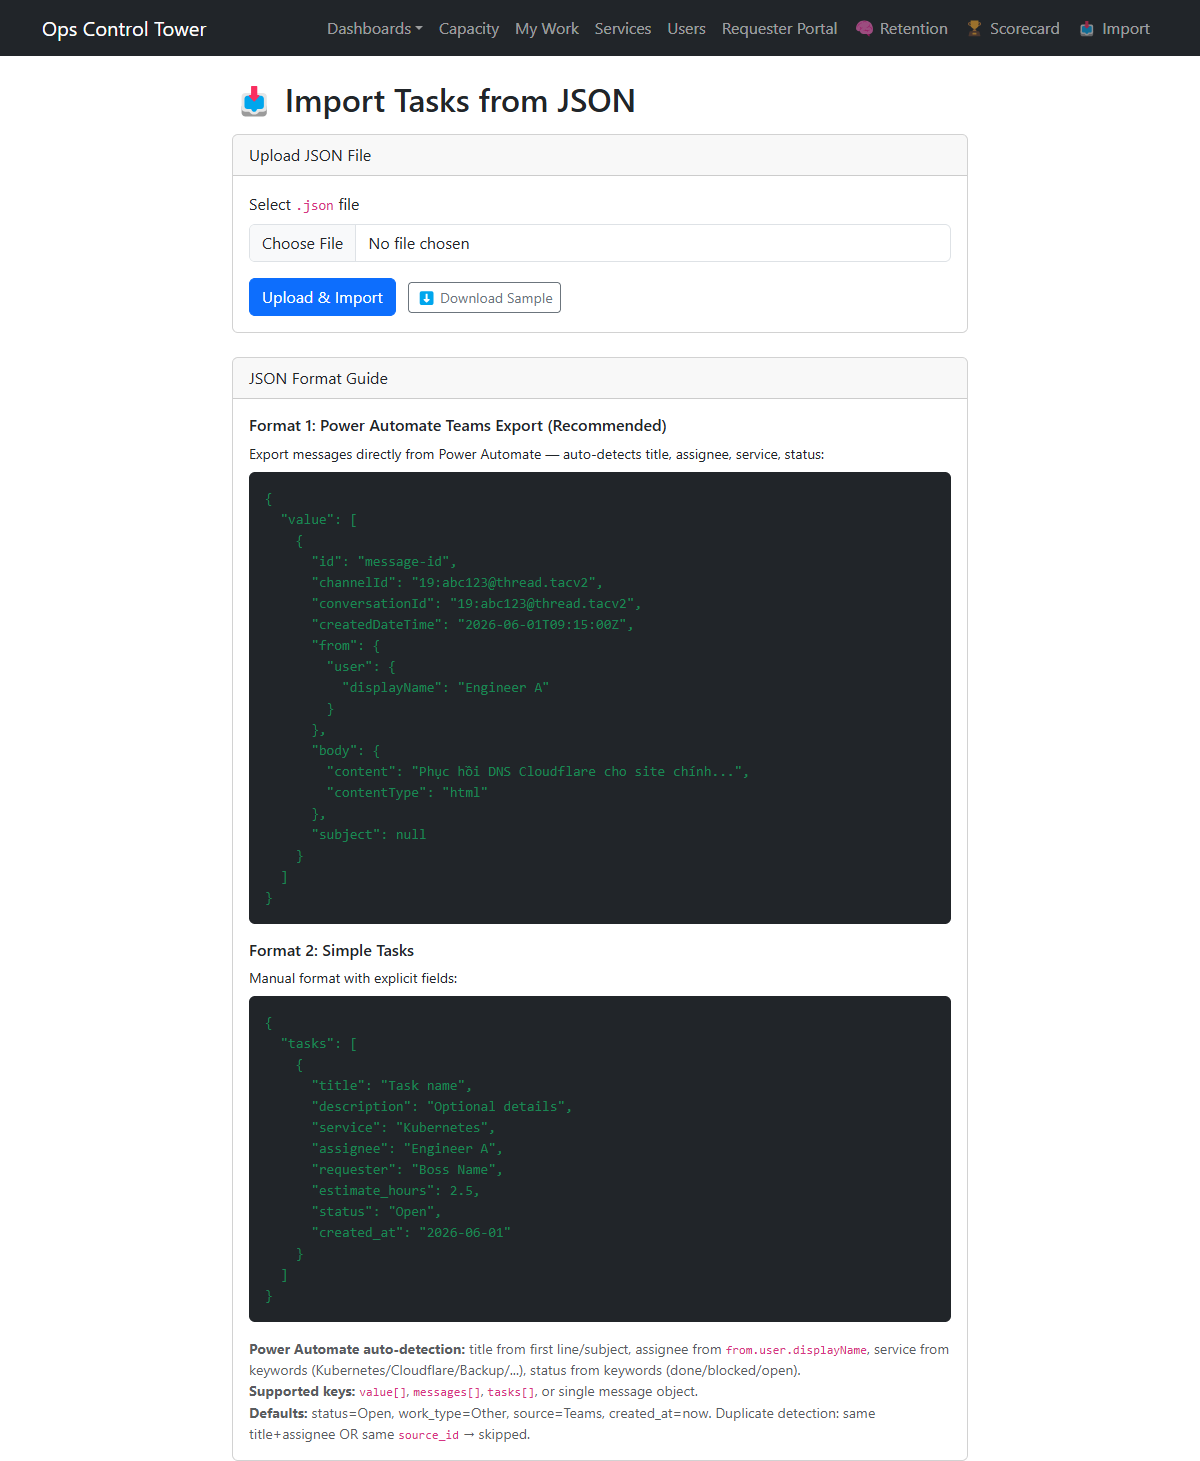
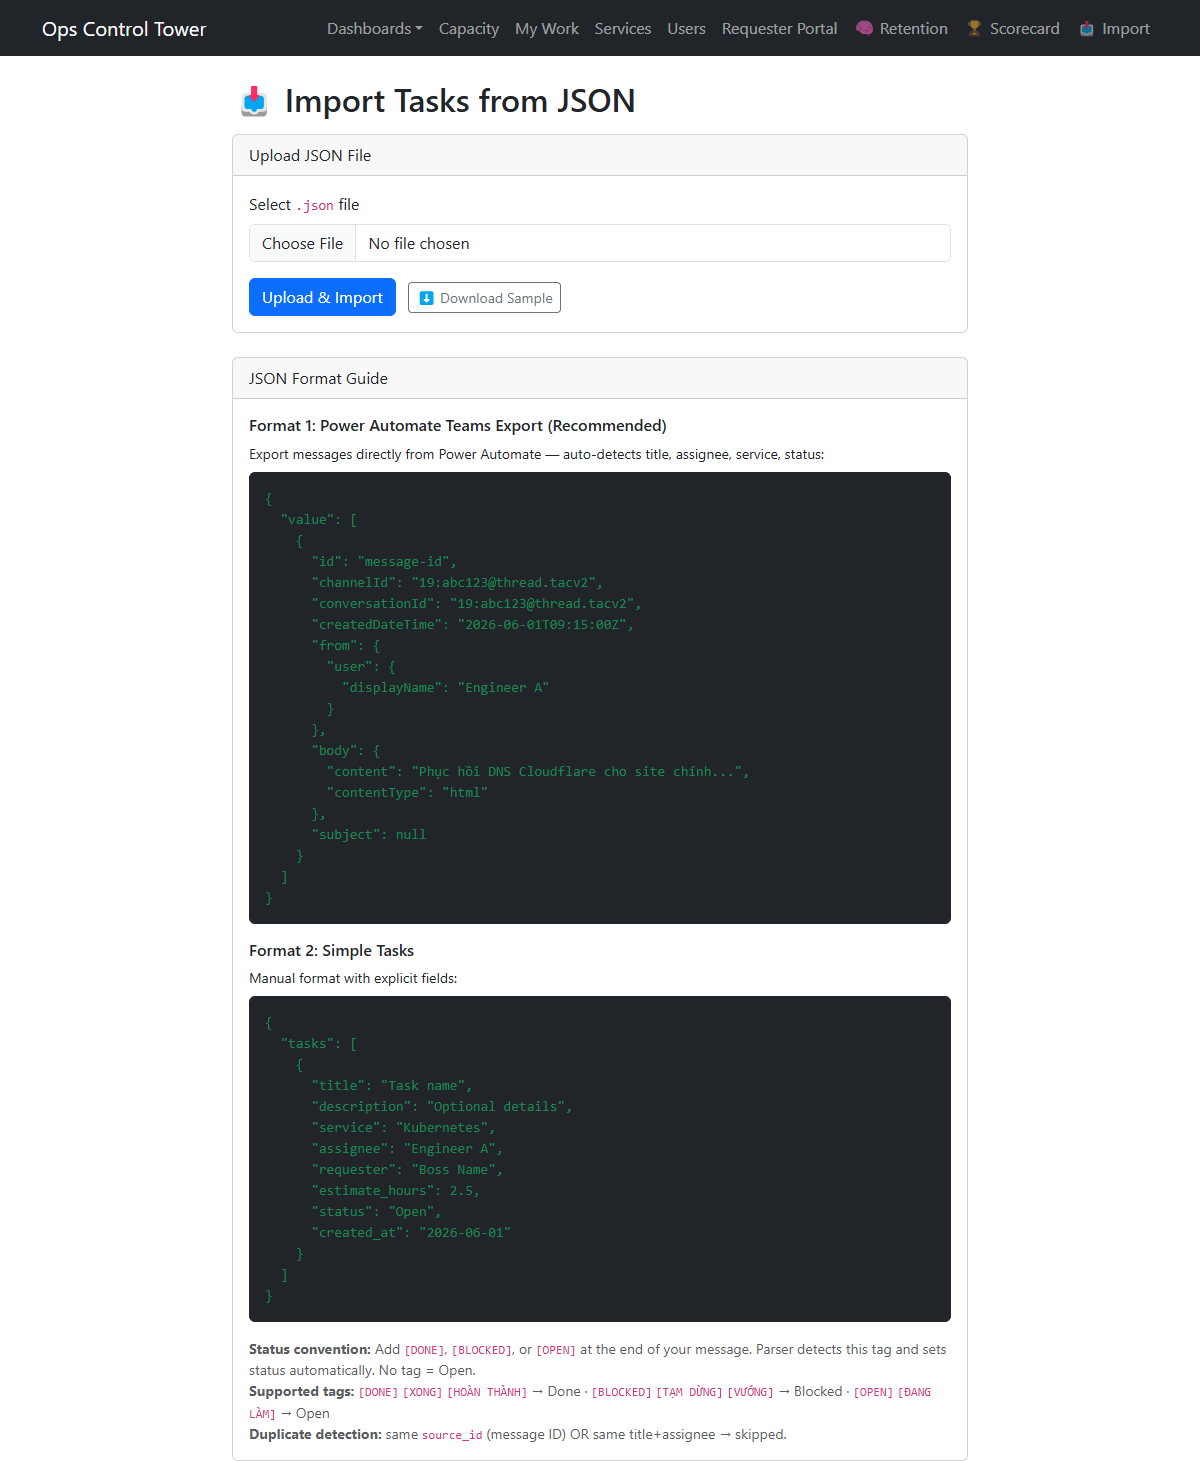
fix: convention tag detection for status + better duplicate message
- Status detection: [DONE]/[BLOCKED]/[OPEN] tags at end of message (priority 1)
  vs keyword fallback (priority 2)
- Tags stripped from title and description after extraction
- Template shows 'All tasks already exist' for duplicates instead of 'Import failed: None'
- sample-import.json: all 7 tasks use [DONE] or [OPEN] convention tags

Convention:
  [DONE] [XONG] [HOÀN THÀNH] → Done
  [BLOCKED] [TẠM DỪNG] [VƯỚNG] → Blocked
  [OPEN] [ĐANG LÀM] → Open (default)

Changed region(s): [[0.2158, 0.924, 0.7708, 0.9856]]

diff --git a/app/templates/import.html b/app/templates/import.html
@@ -30,6 +30,11 @@
       {% if result.skipped > 0 %} · Skipped: {{ result.skipped }}{% endif %}
       {% if result.total %} · Total in file: {{ result.total }}{% endif %}
     </div>
+    {% elif result.skipped > 0 and result.imported == 0 %}
+    <div class="alert alert-warning">
+      <strong>⚠ All tasks already exist</strong> ({{ result.skipped }} duplicates skipped).<br>
+      File: <code>{{ result.filename }}</code>
+    </div>
     {% else %}
     <div class="alert alert-danger">
       <strong>❌ Import failed:</strong> {{ result.error }}
@@ -99,11 +104,12 @@
 }</pre>
 
         <p class="small text-muted mb-0">
-          <strong>Power Automate auto-detection:</strong> title from first line/subject, assignee from <code>from.user.displayName</code>, 
-          service from keywords (Kubernetes/Cloudflare/Backup/...), status from keywords (done/blocked/open). 
-          <br><strong>Supported keys:</strong> <code>value[]</code>, <code>messages[]</code>, <code>tasks[]</code>, or single message object.
-          <br><strong>Defaults:</strong> status=Open, work_type=Other, source=Teams, created_at=now.
-          Duplicate detection: same title+assignee OR same <code>source_id</code> → skipped.
+          <strong>Status convention:</strong> Add <code>[DONE]</code>, <code>[BLOCKED]</code>, or <code>[OPEN]</code> at the end of your message. 
+          Parser detects this tag and sets status automatically. No tag = Open.
+          <br><strong>Supported tags:</strong> <code>[DONE]</code> <code>[XONG]</code> <code>[HOÀN THÀNH]</code> → Done · 
+          <code>[BLOCKED]</code> <code>[TẠM DỪNG]</code> <code>[VƯỚNG]</code> → Blocked · 
+          <code>[OPEN]</code> <code>[ĐANG LÀM]</code> → Open
+          <br><strong>Duplicate detection:</strong> same <code>source_id</code> (message ID) OR same title+assignee → skipped.
         </p>
       </div>
     </div>

diff --git a/app/routers/importer.py b/app/routers/importer.py
@@ -19,6 +19,14 @@ DONE_KEYWORDS = {"done", "completed", "hoàn thành", "xong", "đã xong", "reso
 BLOCKED_KEYWORDS = {"blocked", "halted", "stalled", "tạm dừng", "vướng", "chờ", "waiting", "pending"}
 OPEN_KEYWORDS = {"open", "in progress", "đang làm", "đang xử lý", "started", "bắt đầu"}
 
+# Convention tags: [DONE], [BLOCKED], [OPEN] at end of message
+STATUS_TAG_RE = re.compile(r"\[(DONE|XONG|HOÀN THÀNH|BLOCKED|TẠM DỪNG|VƯỚNG|OPEN|ĐANG LÀM)\]\s*$", re.IGNORECASE)
+STATUS_TAG_MAP = {
+    "DONE": "Done", "XONG": "Done", "HOÀN THÀNH": "Done",
+    "BLOCKED": "Blocked", "TẠM DỪNG": "Blocked", "VƯỚNG": "Blocked",
+    "OPEN": "Open", "ĐANG LÀM": "Open",
+}
+
 
 class _HTMLTextExtractor(HTMLParser):
     def __init__(self):
@@ -47,6 +55,14 @@ def detect_service(text: str) -> str:
 
 
 def detect_status(text: str) -> str:
+    """Detect status: first check convention tag [DONE]/[BLOCKED]/[OPEN], then keyword fallback."""
+    # Priority 1: convention tag at end of message
+    tag_match = STATUS_TAG_RE.search(text)
+    if tag_match:
+        tag = tag_match.group(1).upper()
+        return STATUS_TAG_MAP.get(tag, "Open")
+
+    # Priority 2: keyword detection (fallback)
     text_lower = text.lower()
     for kw in DONE_KEYWORDS:
         if kw in text_lower:
@@ -60,7 +76,7 @@ def detect_status(text: str) -> str:
 def extract_title_from_message(msg: dict) -> str:
     subject = (msg.get("subject") or "").strip()
     if subject:
-        return subject[:120]
+        return STATUS_TAG_RE.sub("", subject).strip()[:120]
 
     body = msg.get("body", {})
     if isinstance(body, dict):
@@ -70,6 +86,7 @@ def extract_title_from_message(msg: dict) -> str:
 
     text = strip_html(content) if "<" in content else content
     first_line = text.split("\n")[0].strip()
+    first_line = STATUS_TAG_RE.sub("", first_line).strip()
     return first_line[:120] if first_line else "(no subject)"
 
 
@@ -91,8 +108,11 @@ def parse_pa_message(msg: dict) -> dict:
 
     text = strip_html(content) if content_type == "html" or "<" in content else content
 
-    # Title = subject or first line
+    # Title = subject or first line (strip status tag)
     title = extract_title_from_message(msg)
+
+    # Clean description: strip tags from full text
+    clean_text = STATUS_TAG_RE.sub("", text).strip()
 
     # Detect service and status from full text
     service = detect_service(text)
@@ -110,7 +130,7 @@ def parse_pa_message(msg: dict) -> dict:
 
     return {
         "title": title,
-        "description": text if text != title else "",
+        "description": clean_text if clean_text != title else "",
         "service": service,
         "assignee": assignee,
         "status": status,
